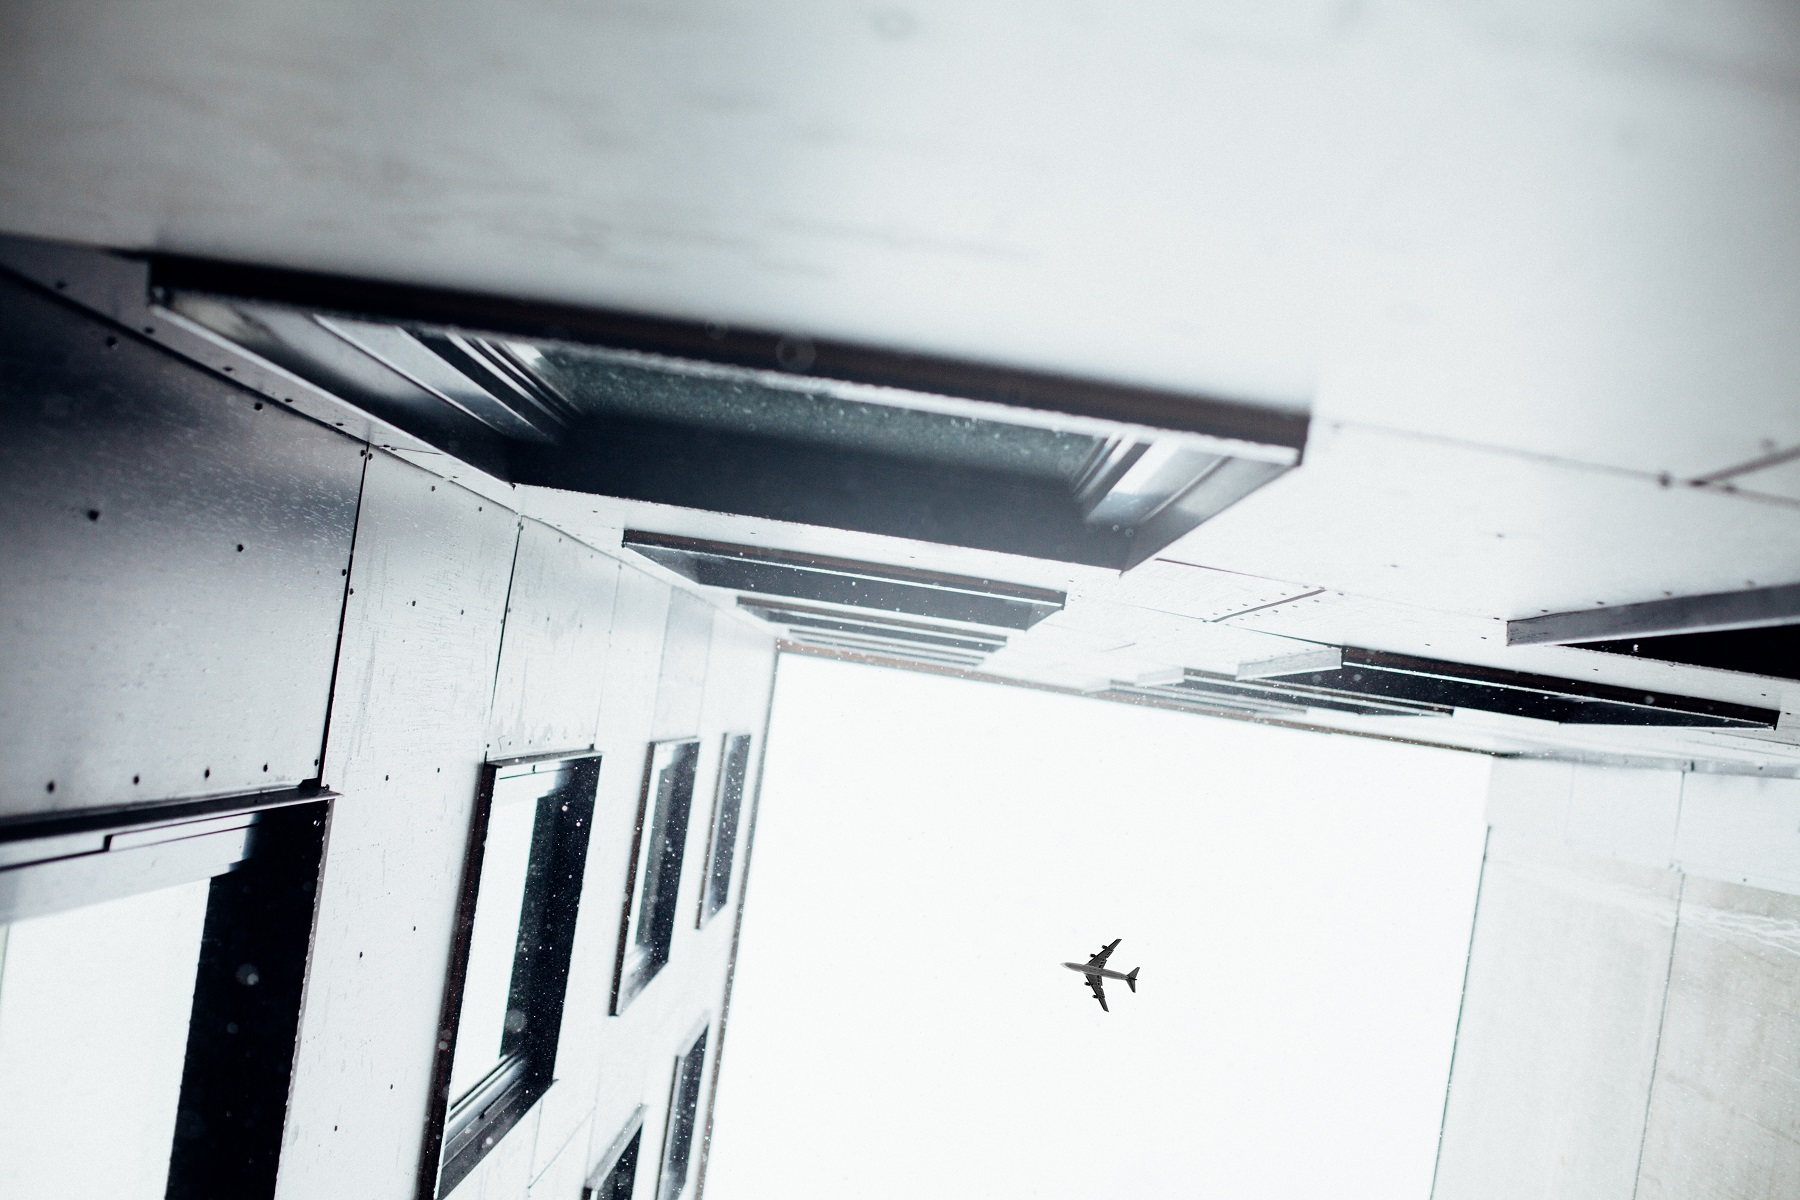
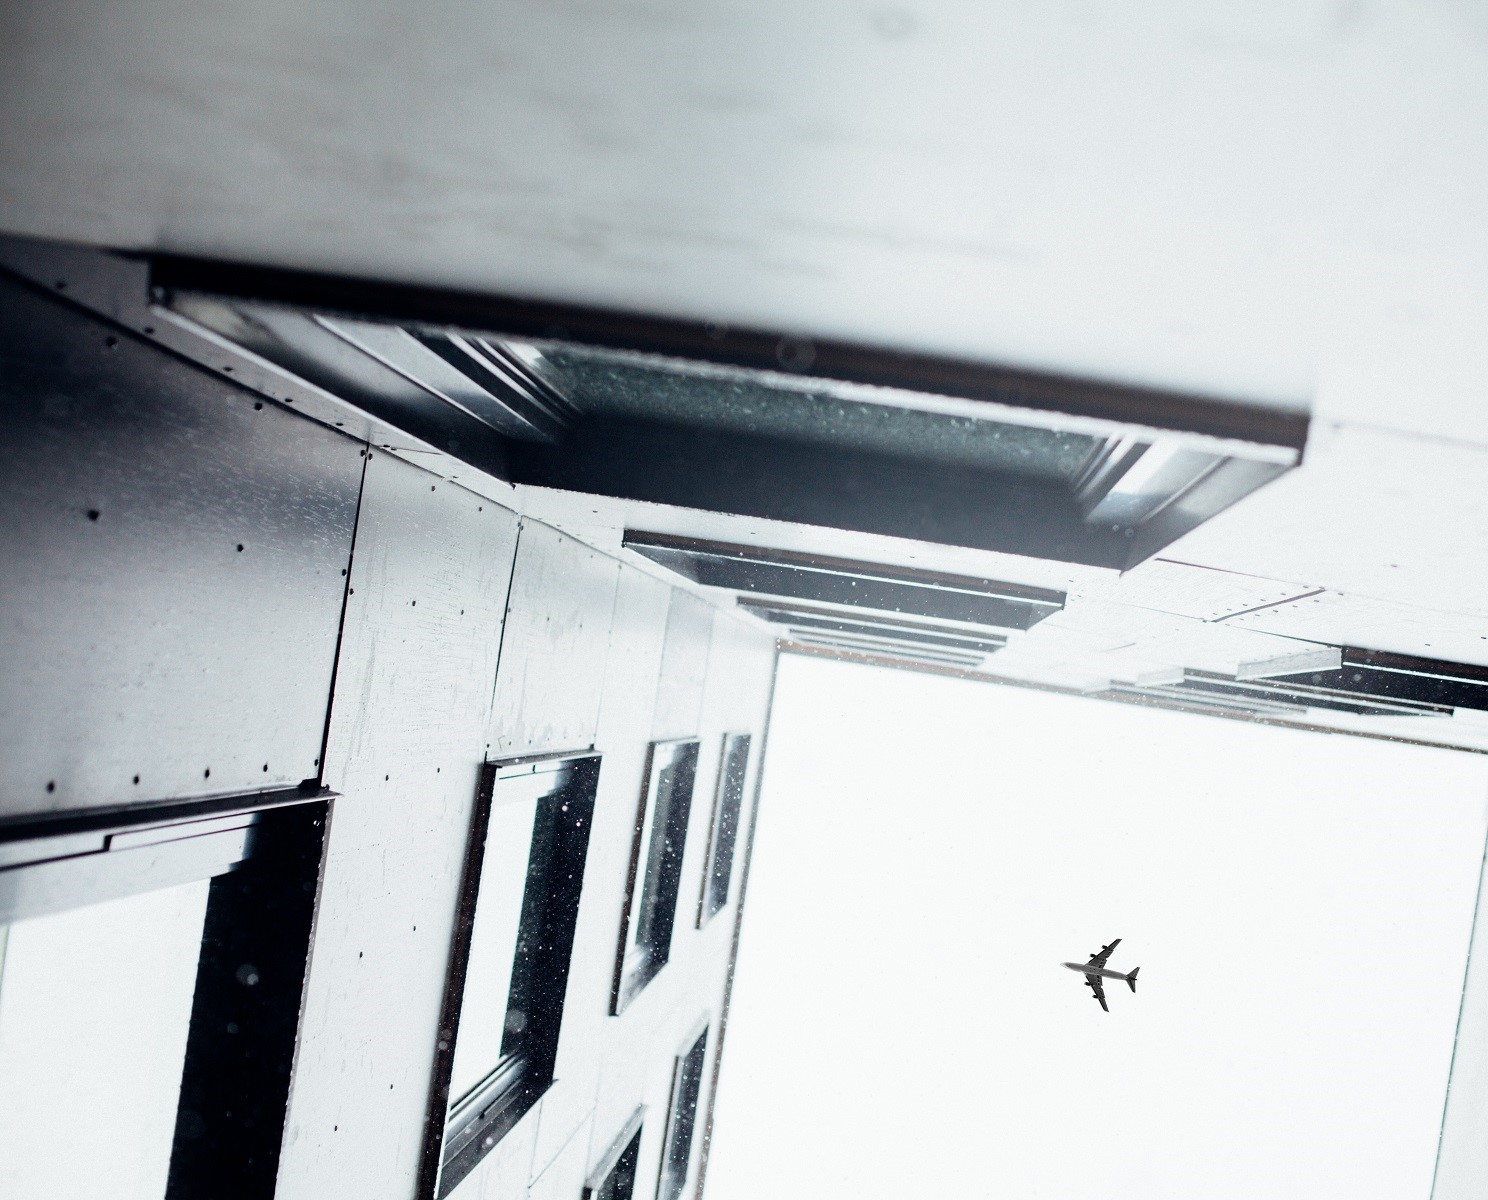
1

diff --git a/CyclopsVision/index.html b/CyclopsVision/index.html
@@ -87,7 +87,7 @@
 
 	<section class="sect_two">
 		<div class="content">
-		<img src="images/6.jpg" alt="">
+		<img src="images/5.jpg" alt="">
 			<div class="container">
 				<div class="row">
 				</div>
